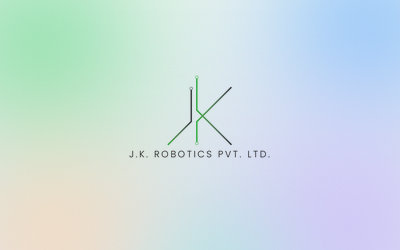
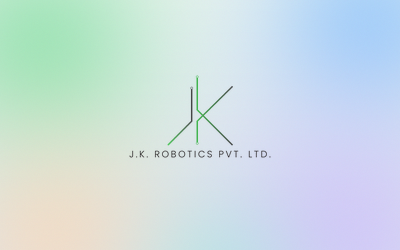
debugging display fix

diff --git a/scripts/make-branding.py b/scripts/make-branding.py
@@ -95,8 +95,13 @@ def tracked_text(text, font, tracking):
 
 
 def full_name_logo():
-    """The logo with its lettering replaced by FULL_NAME: same typeface, cap
-    height, letter spacing, colour and baseline, centred under the mark."""
+    """Render the mark and full name at twice the source resolution.
+
+    The supplied PNG provides the lettering's proportions and colour. The
+    wallpaper itself uses the mark's paths and the Poppins font directly, so
+    its edges do not inherit the source PNG's 700-pixel resolution.
+    """
+    scale = 2
     src = Image.open(SRC).convert("RGB")
     ink = np.asarray(src.convert("L")) < 200
     rows = np.flatnonzero(ink.any(axis=1))
@@ -114,15 +119,43 @@ def full_name_logo():
     _, (x0, y0, x1, y1) = tracked_text(LOGO_TEXT, font, 0)
     tracking = (width - (x1 - x0)) / (len(LOGO_TEXT) - 1)
 
-    mask, (x0, y0, x1, y1) = tracked_text(FULL_NAME, font, tracking)
+    font = ImageFont.truetype(str(FONT), font.size * scale)
+    mask, (x0, y0, x1, y1) = tracked_text(FULL_NAME, font, tracking * scale)
     mask = mask.crop((x0, y0, x1, y1))
-    centre = (cols[0] + cols[-1]) / 2
-    margin = cols[0]
-    w = max(src.width, mask.width + 2 * margin)
-    img = Image.new("RGB", (w, src.height), "white")
-    shift = round(w / 2 - centre)
-    img.paste(src.crop((0, 0, src.width, top - 1)), (shift, 0))
-    img.paste(Image.new("RGB", mask.size, colour), (round(w / 2 - mask.width / 2), top), mask)
+    centre = (cols[0] + cols[-1]) / 2 * scale
+    margin = cols[0] * scale
+    w = max(src.width * scale, mask.width + 2 * margin)
+    img = Image.new("RGBA", (w, src.height * scale))
+    mark = Image.new("RGBA", (src.width * scale, top * scale))
+    draw = ImageDraw.Draw(mark)
+
+    def mark_colour(t):
+        return tuple(round(v) for v in GREEN * (1 - t) + DARK * t) + (255,)
+
+    stroke_width = round(STROKE * scale)
+    for points, tones in STROKES:
+        for (p, tp), (q, tq) in zip(zip(points, tones), zip(points[1:], tones[1:])):
+            steps = max(abs(q[0] - p[0]), abs(q[1] - p[1])) // 3 + 1
+            for i in range(steps):
+                t0, t1 = i / steps, (i + 1) / steps
+                a = ((p[0] + (q[0] - p[0]) * t0) * scale,
+                     (p[1] + (q[1] - p[1]) * t0) * scale)
+                b = ((p[0] + (q[0] - p[0]) * t1) * scale,
+                     (p[1] + (q[1] - p[1]) * t1) * scale)
+                draw.line((a, b), fill=mark_colour(tp + (tq - tp) * (t0 + t1) / 2), width=stroke_width)
+            for point, tone in ((p, tp), (q, tq)):
+                x, y = point[0] * scale, point[1] * scale
+                r = stroke_width / 2
+                draw.ellipse((x - r, y - r, x + r, y + r), fill=mark_colour(tone))
+    for (x, y), tone in RINGS:
+        radius, line = RING_R * scale, round(RING_W * scale)
+        x, y = x * scale, y * scale
+        draw.ellipse((x - radius, y - radius, x + radius, y + radius),
+                     fill=(0, 0, 0, 0), outline=mark_colour(tone), width=line)
+
+    img.alpha_composite(mark, (round(w / 2 - centre), 0))
+    img.paste(Image.new("RGBA", mask.size, colour + (255,)),
+              (round(w / 2 - mask.width / 2), top * scale), mask)
     return img
 
 
@@ -246,13 +279,19 @@ def main():
     for n in (16, 22, 24, 32, 48, 64, 96, 128, 256, 512):
         save(render_mark(n), OUT / f"icons/hicolor/{n}x{n}/apps/jk-os.png")
 
-    named = trim(color_to_alpha(full_name_logo()), 12)
+    named = trim(full_name_logo(), 24)
     named_dark = invert_lightness(named)
     # JPEG: the glows' fine noise (against banding) doesn't compress as PNG.
     wp = OUT / "wallpapers/jk_os/contents"
-    for w, h in ((1920, 1080), (2560, 1440), (3840, 2160), (1080, 1920)):
-        save(compose((w, h), named, AURORA_LIGHT), wp / f"images/{w}x{h}.jpg", quality=93)
-        save(compose((w, h), named_dark, AURORA_DARK), wp / f"images_dark/{w}x{h}.jpg", quality=93)
+    for names, size in (
+            (((1920, 1080), (2560, 1440), (3840, 2160)), (3840, 2160)),
+            (((1080, 1920), (2160, 3840)), (2160, 3840))):
+        light = compose(size, named, AURORA_LIGHT)
+        dark = compose(size, named_dark, AURORA_DARK)
+        for label in names:
+            filename = f"{label[0]}x{label[1]}.jpg"
+            save(light, wp / "images" / filename, quality=98, subsampling=0)
+            save(dark, wp / "images_dark" / filename, quality=98, subsampling=0)
     save(compose((400, 250), named, AURORA_LIGHT), wp / "screenshot.png")
 
     # The Global Themes' previews (light and dark): the wallpaper, a menu bar

diff --git a/scripts/make-splash-animation.py b/scripts/make-splash-animation.py
@@ -24,8 +24,7 @@ def main():
         run([
             "gst-launch-1.0", "-q", "filesrc", f"location={SOURCE}", "!",
             "qtdemux", "!", "h264parse", "!", "avdec_h264", "!",
-            "videorate", "!", "video/x-raw,framerate=30/1", "!",
-            "videoscale", "!", "video/x-raw,width=1280,height=720", "!",
+            "videorate", "!", "video/x-raw,framerate=30/1,width=1920,height=1080", "!",
             "videoconvert", "!", "pngenc", "!", "multifilesink",
             f"location={frames}/frame-%03d.png",
         ], check=True)
@@ -35,7 +34,7 @@ def main():
         OUTPUT.parent.mkdir(parents=True, exist_ok=True)
         pictures[0].save(
             OUTPUT, format="WEBP", save_all=True, append_images=pictures[1:],
-            duration=[33, 33, 34] * 60, loop=1, quality=85, method=4,
+            duration=[33, 33, 34] * 60, loop=1, quality=98, method=6,
         )
         print(f"Wrote {OUTPUT} ({OUTPUT.stat().st_size:,} bytes)")
 

diff --git a/README.md b/README.md
@@ -539,9 +539,11 @@ way up, 0 and 180 portrait). External screens keep their own orientation.
 
 The light `jk-gui` theme plays `jk_os_particle_splash.mp4` as a six-second
 particle intro and fades into the default wallpaper. The OS ships its
-animated WebP conversion because QtMultimedia has no video backend;
+full-resolution 1920×1080 animated WebP conversion because QtMultimedia has no video backend;
 `python3 scripts/make-splash-animation.py` regenerates that asset after
-the source video changes. The dark theme keeps its dark wallpaper splash.
+the source video changes. The wallpaper is rendered at 4K from the logo's
+vector mark and Poppins lettering by `scripts/make-branding.py`. The dark
+theme keeps its dark wallpaper splash.
 
 ## NVIDIA GPUs
 
